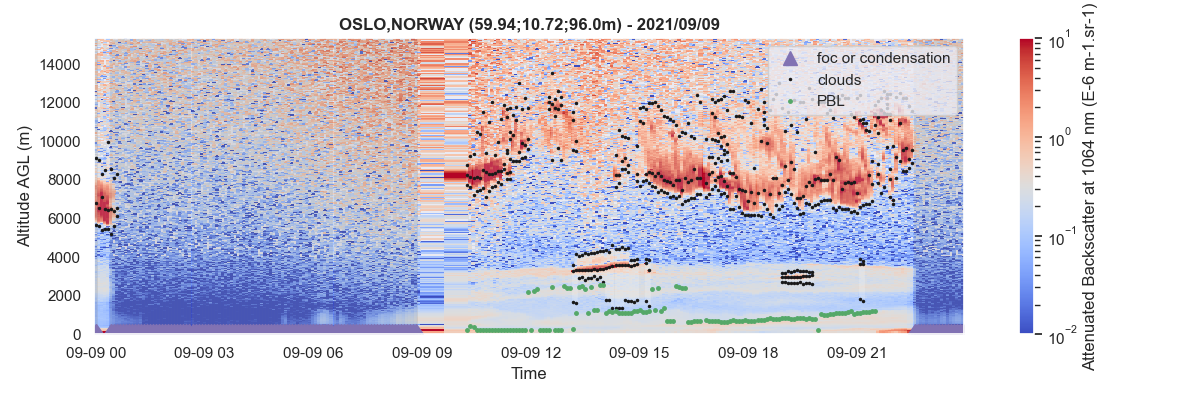
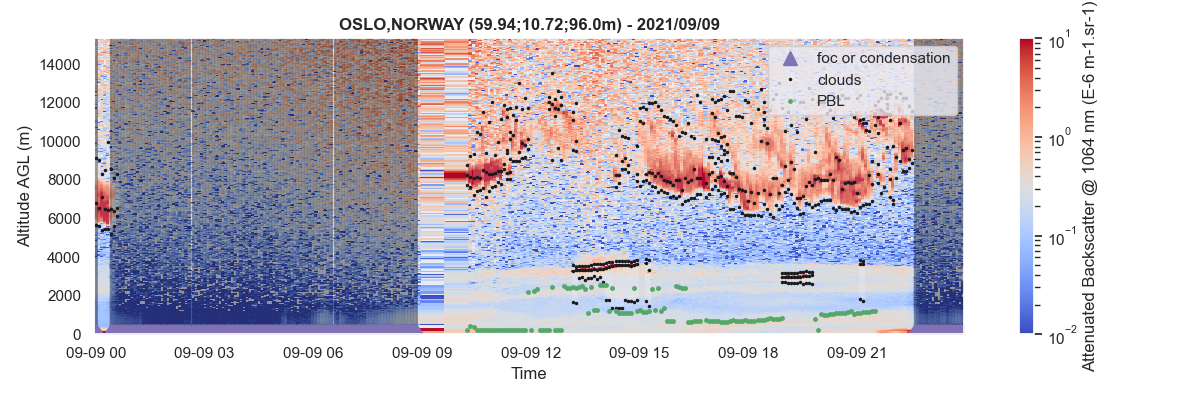
pudate readme figure

diff --git a/main.py b/main.py
@@ -42,7 +42,7 @@ profiles.clouds(zmin=300, thr_noise=5, thr_clouds=4, verbose=True)
 profiles.pbl(zmin=200, zmax=3000, under_clouds=False, min_snr=2.0, verbose=True)
 
 # plot image
-#profiles.plot(zref='agl', show_foc=False, show_clouds=True, show_pbl=False, log=True, vmin=1e-2, vmax=1e1)
+profiles.plot(zref='agl', show_foc=True, show_clouds=True, show_pbl=True, log=True, vmin=1e-2, vmax=1e1)
 
 # plot single profile
 # datetime = np.datetime64('2021-09-09T19:25:00')

diff --git a/run/utils/json_map.py b/run/utils/json_map.py
@@ -74,6 +74,8 @@ def add_to_map(fn, base_dir, yyyy, mm, dd, mapname):
                 'altitude': ds.attrs['station_altitude'],
             },
             'l0_wavelength': ds.attrs['l0_wavelength'],
+            'station_id': ds.attrs['wigos_station_id'],
+            'station_name': ds.attrs['site_location']
         },
         'ext': [round(ext,4) if not np.isnan(ext) else None for ext in max_ext],
         'scene': max_scene

diff --git a/run/singleday_series.py b/run/singleday_series.py
@@ -17,7 +17,7 @@ def _main():
 
     instrument_types = ['CHM15k', 'miniMPL']
 
-    date = '2021-09-09'
+    date = '2021-09-10'
 
     yyyy = date.split('-')[0]
     mm = date.split('-')[1]
